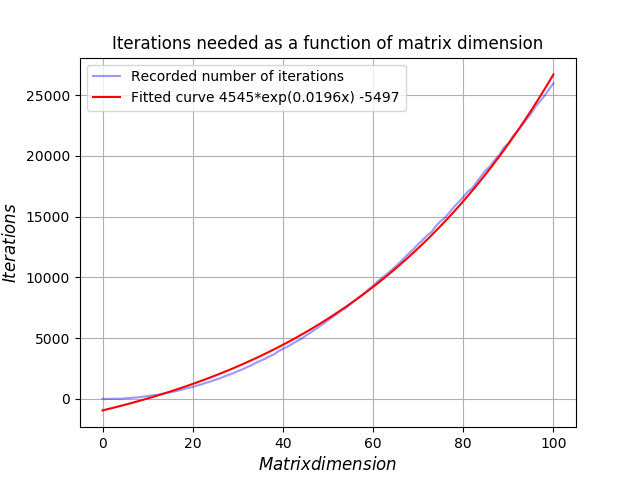
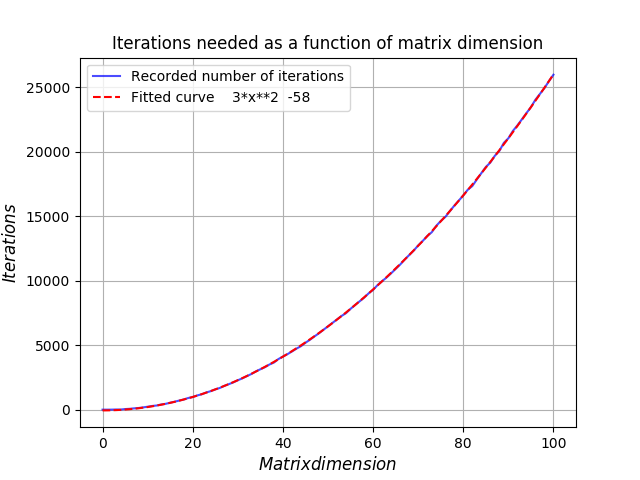
Add files via upload
exp function to x**2 function

diff --git a/Project2/task b/plot.py b/Project2/task b/plot.py
@@ -7,17 +7,18 @@ import scipy.optimize as scipy
 matrix_dim = np.loadtxt('dimensions.dat')
 iterations = np.loadtxt('iterations.dat')
 
-def func(x, a, b, c):
-    return a*np.exp(b*x) + c
+def func(x, a, b):
+    return a*x**2 + b
 
-popt,pcov = scipy.curve_fit(func,  matrix_dim,  iterations,  p0=(0, 0,0))
-a,b,c = popt
+popt,pcov = scipy.curve_fit(func,  matrix_dim,  iterations,  p0=(0, 0))
+a,b = popt
 
-plt.plot(matrix_dim,iterations,'b',zorder=2,alpha=0.4)
-plt.plot(matrix_dim,func(matrix_dim,*popt),'r')
+plt.plot(matrix_dim,iterations,'b',zorder=2,alpha=0.7)
+plt.plot(matrix_dim,func(matrix_dim,*popt),'r--',alpha=1)
 
 plt.title('Iterations needed as a function of matrix dimension')
-plt.legend(['Recorded number of iterations','Fitted curve {:4.0f}*exp({:0.4f}x) {:4.0f}'.format(a,b,c)])
+#plt.legend(['Recorded number of iterations','Fitted curve {:4.0f}*exp({:0.4f}x) {:4.0f}'.format(a,b)])
+plt.legend(['Recorded number of iterations','Fitted curve {:4.0f}*x**2 {:4.0f}'.format(a,b)])
 plt.xlabel(r'$Matrix dimension$',fontsize=12)
 plt.ylabel(r'$Iterations$',fontsize=12)
 plt.grid(True)
